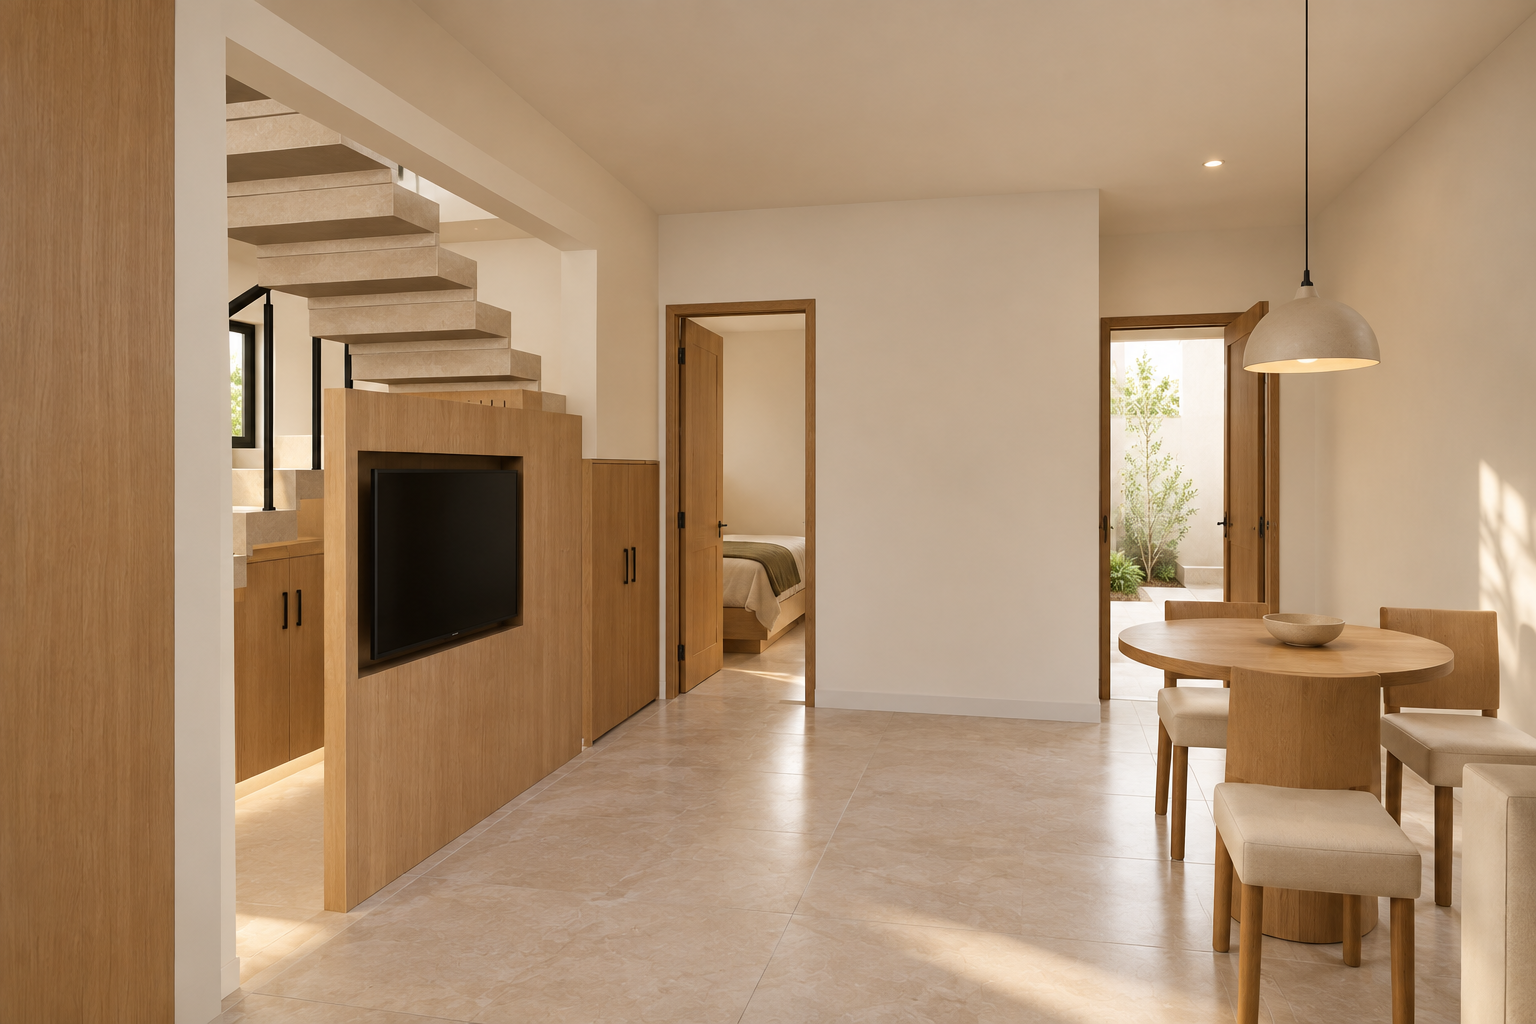
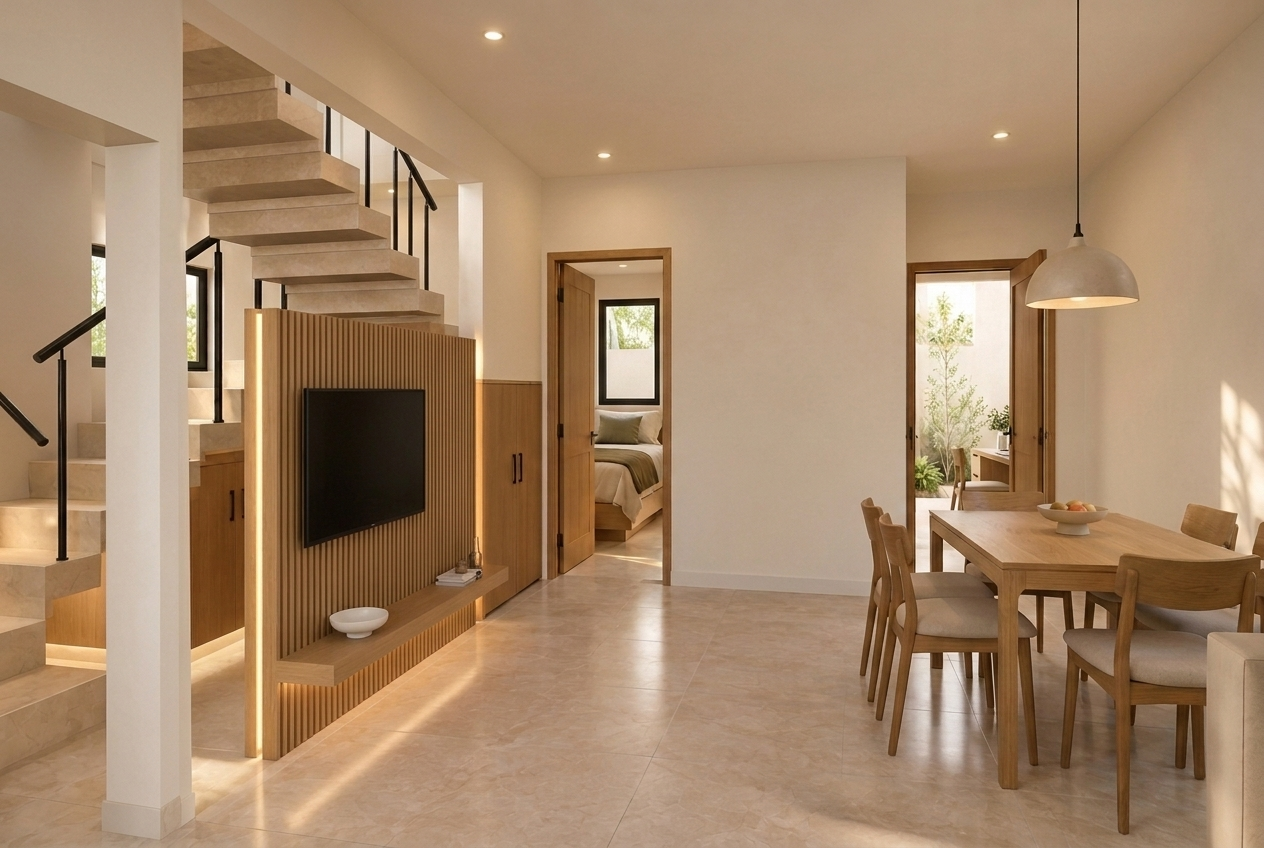
Refactor code structure for improved readability and maintainability

diff --git a/interiors/IMAGE_REVIEW.md b/interiors/IMAGE_REVIEW.md
@@ -4,7 +4,9 @@ Post-generation audit and release certification against the approved Hensal Hous
 
 | Status | Count |
 |---|---:|
-| **ACCEPTED / CANONICAL** | 25 |
+| **ACCEPTED / CANONICAL** | 26 |
+| **NEEDS REGENERATION** | 0 |
+| **NEW (PENDING)** | 0 |
 | **SUPERSEDED / REMOVED** | 6 |
 
 ## Final Canonical Image Set
@@ -12,9 +14,9 @@ Post-generation audit and release certification against the approved Hensal Hous
 | Image | Room / Area | Status | Verification & Architectural Details |
 |---|---|---|---|
 | `01-entrance-wide.png` | Entrance / Sit-out | **ACCEPTED** | Covered sitout with two compact timber seats, 3 approach steps, warm wall lantern, and approved curved facade band. Normalized from -v2. |
-| `02-living-wide.png` | Living Room | **ACCEPTED** | Restores solid ensuite wall between Bed 1 and service passage. Stair boundary, TV panel and route behind TV match source. |
-| `03-stair-tv-wide.png` | Staircase / TV | **ACCEPTED** | Two-riser starter, return flight, fixed TV panel on living stair boundary, under-stair storage door and clear route behind panel. |
-| `04-storage-wide.png` | Under-stair Storage | **ACCEPTED** | **REGENERATED**: 900 × 1400 mm low bifold oak doors with partition wall above intact and correct stepped soffits under stair landing. |
+| `02-living-wide.png` | Living Room | **ACCEPTED** | Restores solid ensuite wall between Bed 1 and service passage. Stair boundary, vertical fluted TV panel, slim floating shelf, Bedroom 1 entry, and compact rectangular 6-seater oak dining table in background. |
+| `03-stair-tv-wide.png` | Staircase / TV | **ACCEPTED** | Upgraded: vertical fluted/slatted oak wood accents on TV backing, integrated warm LED backlighting (2700-3000K), slim floating oak media shelf below screen. Retains two-riser starter, return flight, under-stair storage door and clear route behind panel. |
+| `04-storage-wide.png` | Under-stair Storage | **ACCEPTED** | **REGENERATED**: 900 × 1400 mm low bifold oak doors with partition wall above intact and correct stepped soffits under stair landing, matching vertical fluted TV unit edge. |
 | `05-wash-wide.png` | Under-stair Wash | **ACCEPTED** | West-facing semi-recessed basin under upper flight, mirror partition, low cabinet stoop access, R5 clearance profile. |
 | `06-kitchen-wide.png` | Kitchen (Wide) | **ACCEPTED** | Approved L-counter with hob centered under 1.70m east window, short 550mm north sink return, southwest refrigerator. |
 | `06-kitchen-opposite.png` | Kitchen (Opposite) | **ACCEPTED** | **REGENERATED**: Reverse angle looking southwest, preserving open central floor and strict L-shape without unauthorized south counter. |
@@ -29,13 +31,14 @@ Post-generation audit and release certification against the approved Hensal Hous
 | `09-bedroom3-opposite.png` | Bedroom 3 (Opposite) | **ACCEPTED** | Reverse angle showing west ensuite door, north window, and continuous L wardrobe return. |
 | `09-bedroom3-detail.png` | Bedroom 3 (Detail) | **ACCEPTED** | Functional corner detail of L-shaped wardrobe showing paired door access without fixed corner post. |
 | `10-study-wide.png` | Study / Family | **ACCEPTED** | **RESTORED PREFERRED**: User-preferred family arrangement with compact daybed/sofa under east window with Roman blind, shallow oak side desk with lamp. |
-| `10-passage-wide.png` | First-Floor Passage | **ACCEPTED** | **NEW VIEW**: First-floor gallery with clean off-white walls, 2-3 restrained framed art/family photos in oak/black frames, warm 3000K recessed lighting. |
-| `11-bathroom1-wide.png` | Ensuite 1 (Ground) | **ACCEPTED** | **CRITICAL CORRECTION**: Complete 1.30 x 2.00m ensuite with east wash vanity, semi-recessed basin, toiletries, mirror, towel hook, mat, WC, and west shower with frosted window. |
-| `12-bathroom2-wide.png` | Ensuite 2 (Master) | **ACCEPTED** | **CRITICAL CORRECTION**: Complete 1.30 x 2.00m master ensuite with east wash vanity, basin, mirror, toiletries, towel hook, mat, WC, and west shower with rear vent. |
-| `13-bathroom3-wide.png` | Ensuite 3 (Bed 3) | **ACCEPTED** | **CRITICAL CORRECTION**: Complete 1.30 x 2.00m Bedroom 3 ensuite with east wash vanity, basin, mirror, toiletries, towel hook, mat, WC, and west shower with dual vents. |
+| `10-passage-wide.png` | First-Floor Passage | **ACCEPTED** | **CORRECTED TO PLAN**: Open 0.90 m corridor strictly following Sheet 04 of Hensal_Complete_House_Plans.pdf. Open stair railing on right, clean off-white wall with restrained framed art on left, Master bedroom door at end, natural daylight from front gallery and balcony. |
+| `11-bathroom1-wide.png` | Ensuite 1 (Ground) | **ACCEPTED** | **CRITICAL CORRECTION**: Complete 1.30 x 2.00m ensuite with east wash vanity, semi-recessed basin, wall-mounted toiletries holder (shampoo, conditioner, creams) in shower area, mirror, towel hook, mat, WC, and west frosted window. |
+| `12-bathroom2-wide.png` | Ensuite 2 (Master) | **ACCEPTED** | **CRITICAL CORRECTION**: Complete 1.30 x 2.00m master ensuite with east wash vanity, basin, wall-mounted toiletries holder (shampoo, conditioner, creams) in shower area, mirror, towel hook, mat, WC, and 650x500mm rear vent. |
+| `13-bathroom3-wide.png` | Ensuite 3 (Bed 3) | **ACCEPTED** | **CRITICAL CORRECTION**: Complete 1.30 x 2.00m Bedroom 3 ensuite with east wash vanity, basin, wall-mounted toiletries holder (shampoo, conditioner, creams) in shower area, mirror, towel hook, mat, WC, and dual vents (west & north). |
 | `14-balcony-wide.png` | Front Balcony | **ACCEPTED** | First-floor front balcony with glass balustrade, two outdoor seats, tropical garden view, and curved facade portal. Normalized from -v2. |
-| `15-terrace-wide.png` | Roof Terrace | **ACCEPTED** | Roof terrace with stair enclosure exit door, end vent, and outdoor seating. |
-| `16-dining-wide.png` | Dining Area | **ACCEPTED** | Round oak pedestal table, 3 compact chairs, domed pendant, exactly matching the living room view. |
+| `15-terrace-wide.png` | Roof Terrace | **ACCEPTED** | **CORRECTED TO PLAN**: Accurate 2.20 x 4.10 m headhouse stair enclosure with 3.45 m open terrace zone in SW corner behind building with continuous safeguard perimeter railings. |
+| `16-dining-wide.png` | Dining Area | **ACCEPTED** | **REVISED TO USER REQUIREMENT**: Compact rectangular 6-seater dining table (approx. 1.45m x 0.85m) in natural oak with 6 compact matching upholstered chairs (3 per long side). Domed pendant light, preserving clear passage to kitchen and rear. |
+| `17-front-gallery-wide.png` | Front Gallery | **ACCEPTED** | **NEW / COMPLETED**: First-floor front gallery transitional space (2.70 x 1.05m) looking toward wide sliding glass door opening directly onto front balcony with outdoor seating and curved portal. Clean oak trim, recessed 3000K lighting, open flowing space. |
 
 ## Superseded & Removed Files
 - `01-entrance-wide-v2.png`: Replaced by canonical `01-entrance-wide.png`.
